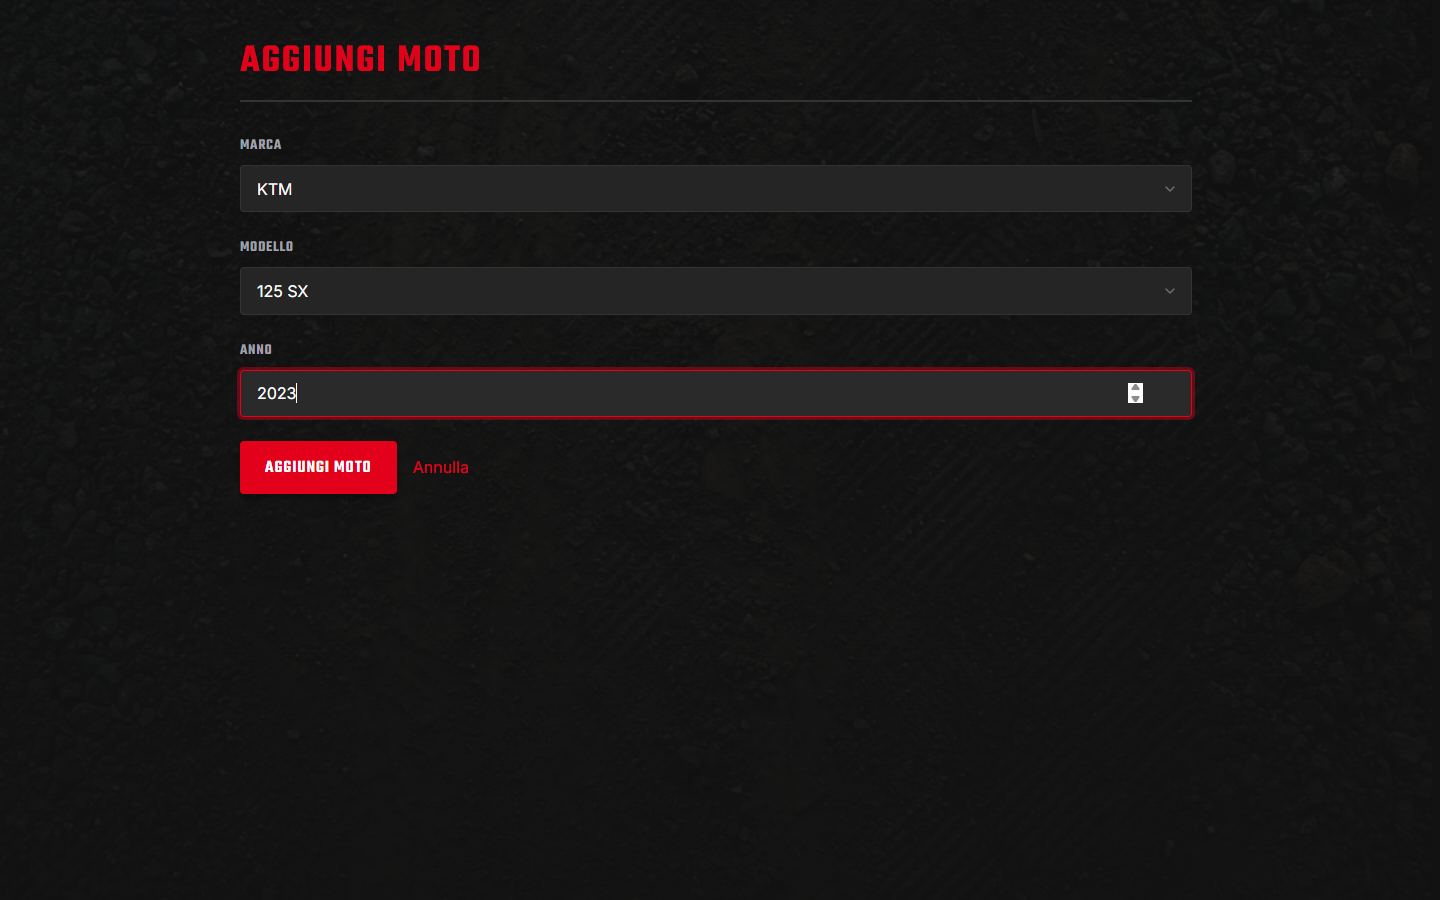
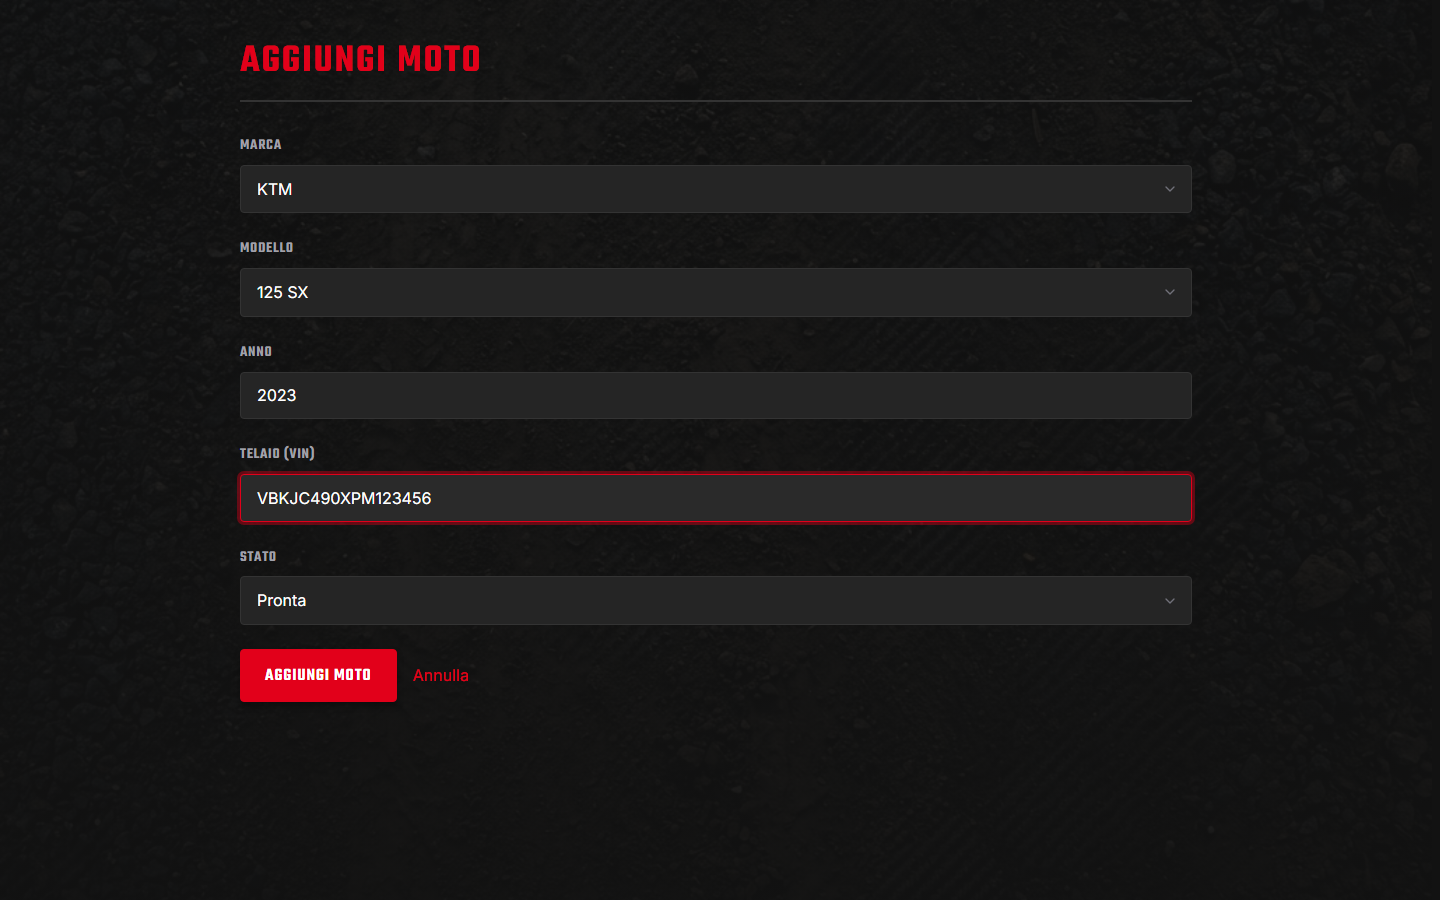
docs: update readme status table and refresh screenshots

diff --git a/README.md b/README.md
@@ -43,6 +43,9 @@ Applicazione per la gestione di moto da cross/enduro, sessioni in pista e manute
 | Grafico storico ore cumulate per moto (`/bikes/:id/history`) | ✅ Implementato |
 | Selezione marca/modello da catalogo predefinito nel form moto (con opzione "altra marca/modello" per valori custom) | ✅ Implementato |
 | Immagine della moto in base a marca/modello (card dashboard e dettaglio moto), con icona generica di fallback | ✅ Implementato |
+| Campi VIN e stato operativo (attiva/pronta/in manutenzione) nel form moto | ✅ Implementato |
+| Card moto in dashboard con badge di stato, VIN, ore totali, barra di allerta manutenzione e azioni rapide (modifica/dettaglio/log) | ✅ Implementato |
+| Selezione tipo di intervento da catalogo predefinito nel form manutenzione, con soglia ore suggerita (opzione "altro" per interventi custom) | ✅ Implementato |
 
 ## Screenshot
 
@@ -83,7 +86,7 @@ Monorepo gestito con pnpm workspaces: backend in `apps/backend`, frontend in `ap
 │   ├── backend/
 │   │   ├── config/            # Configurazione connessione al database
 │   │   ├── controllers/       # Logica di business delle rotte
-│   │   ├── database/          # Schema SQL del database
+│   │   ├── database/          # Schema SQL del database e migrazioni incrementali
 │   │   ├── middlewares/       # Middleware Express (auth, autorizzazione, validazione id)
 │   │   ├── repositories/      # Query al database, isolate per risorsa
 │   │   ├── routes/            # Definizione degli endpoint
@@ -95,7 +98,7 @@ Monorepo gestito con pnpm workspaces: backend in `apps/backend`, frontend in `ap
 │       └── src/
 │           ├── components/    # Componenti riusabili (FormField, SelectField, BikeCard, BikeList, BikeForm, SessionForm, MaintenanceForm, ProtectedRoute, RootRoute, PageTransition)
 │           ├── context/       # Contesto di autenticazione (AuthContext)
-│           ├── data/          # Cataloghi statici (marche/modelli moto)
+│           ├── data/          # Cataloghi statici (marche/modelli moto, tipi di manutenzione)
 │           ├── hooks/         # Hook riusabili (useAuth, useFocusFirstError)
 │           ├── pages/         # Pagine/route (LandingPage, RegisterPage, LoginPage, HomePage, AddBikePage, BikeDetailPage, EditBikePage, AddSessionPage, EditSessionPage, AddMaintenancePage, EditMaintenancePage, NotFoundPage)
 │           ├── services/      # Client HTTP verso il backend (apiFetch, authApi, bikeApi, sessionApi, maintenanceApi, tokenStorage)
@@ -133,6 +136,8 @@ Monorepo gestito con pnpm workspaces: backend in `apps/backend`, frontend in `ap
    ```bash
    mysql -u root -p < apps/backend/database/schema.sql
    ```
+
+   Se il database esiste già da una versione precedente, applica in ordine le migrazioni incrementali in `apps/backend/database/migrations/` invece di ricreare lo schema da zero.
 
 4. Avvia il server (dalla root):
 
@@ -195,8 +200,8 @@ Tutte le rotte richiedono autenticazione (`Authorization: Bearer <token>`). Le r
 | `GET` | `/bike/:id` | Recupera il dettaglio di una moto (incluso il totale ore) |
 | `GET` | `/bike/:id/total-hours` | Totale ore di utilizzo, calcolato sommando le sessioni registrate |
 | `GET` | `/bike/:id/alert` | Manutenzioni scadute o in scadenza (entro 10 ore) per la moto |
-| `POST` | `/bike` | Crea una nuova moto (`brand`, `model`, `year`) |
-| `PUT` | `/bike/:id` | Aggiorna i dati di una moto (`brand`, `model`, `year`) |
+| `POST` | `/bike` | Crea una nuova moto (`brand`, `model`, `year`, `vin`, `status`) |
+| `PUT` | `/bike/:id` | Aggiorna i dati di una moto (`brand`, `model`, `year`, `vin`, `status`) |
 | `DELETE` | `/bike/:id` | Elimina una moto |
 
 ### Sessioni in pista (`/bike/:id/sessions`)
